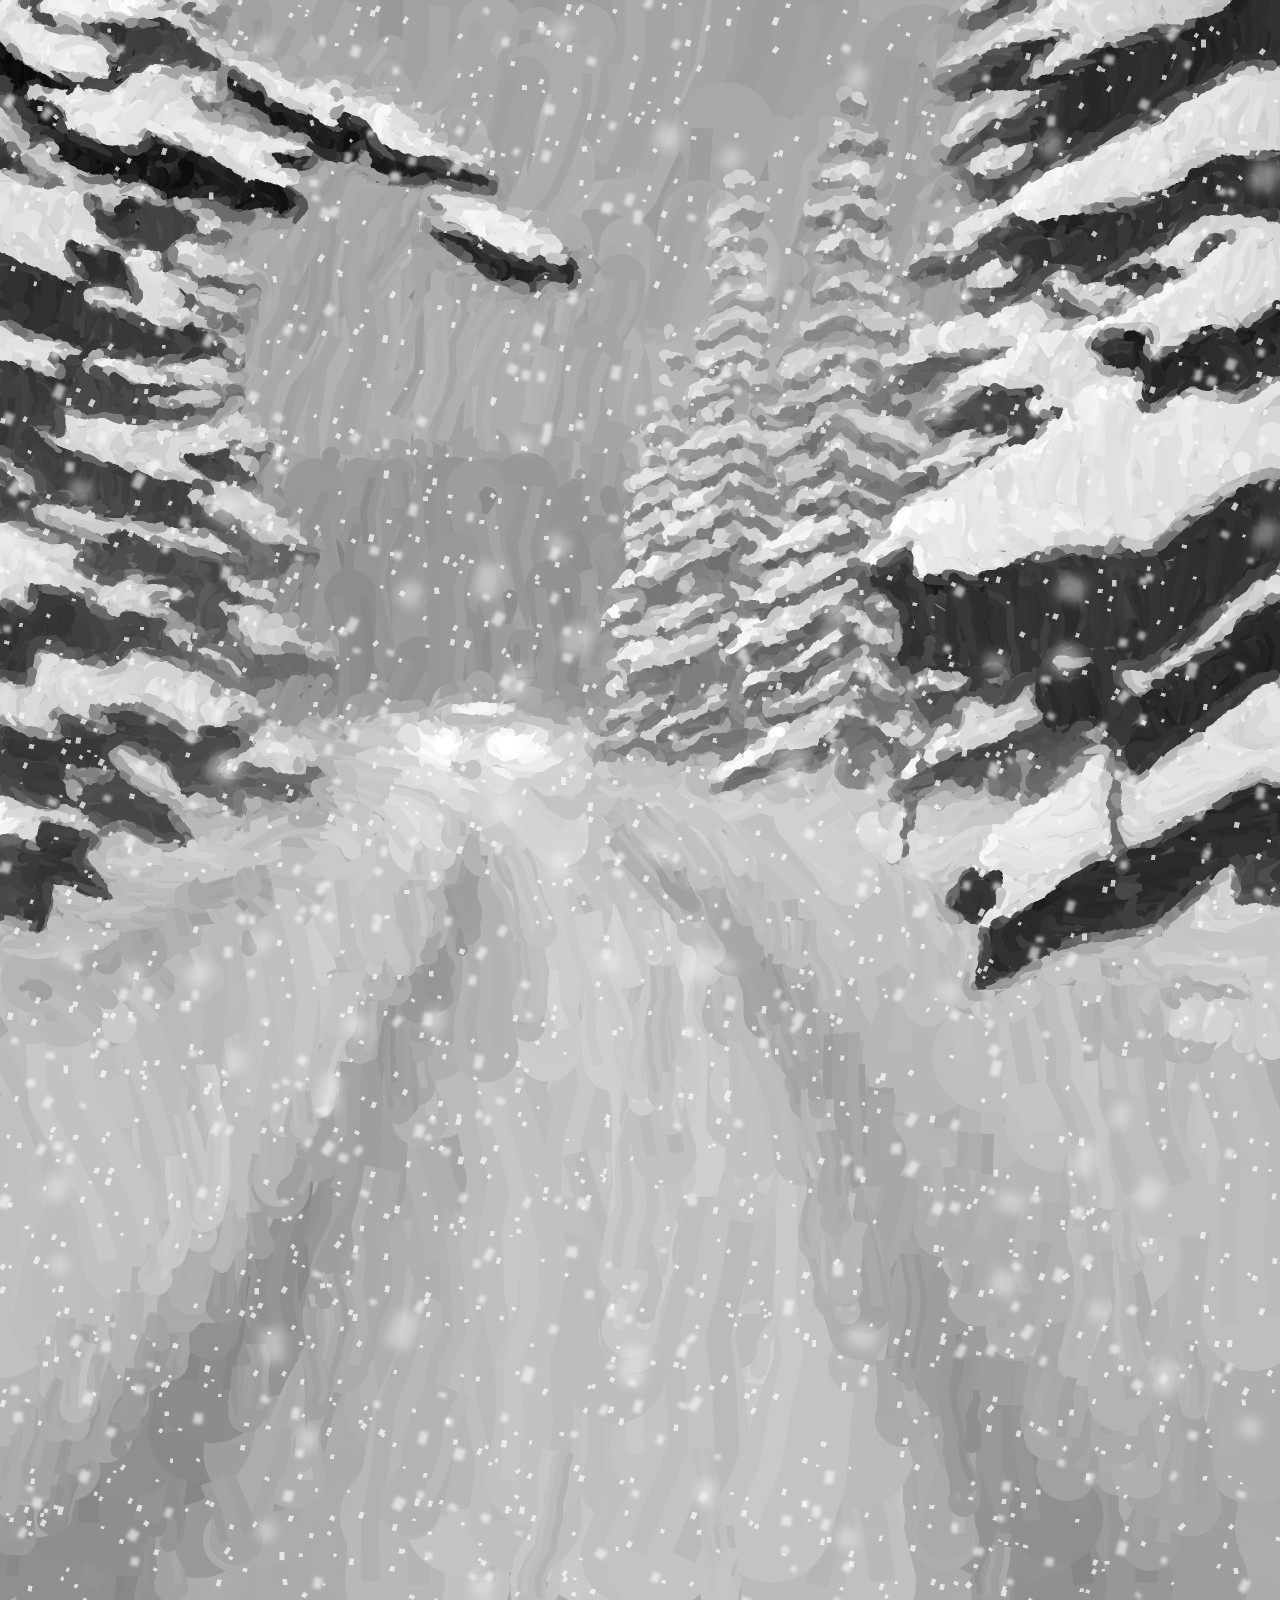
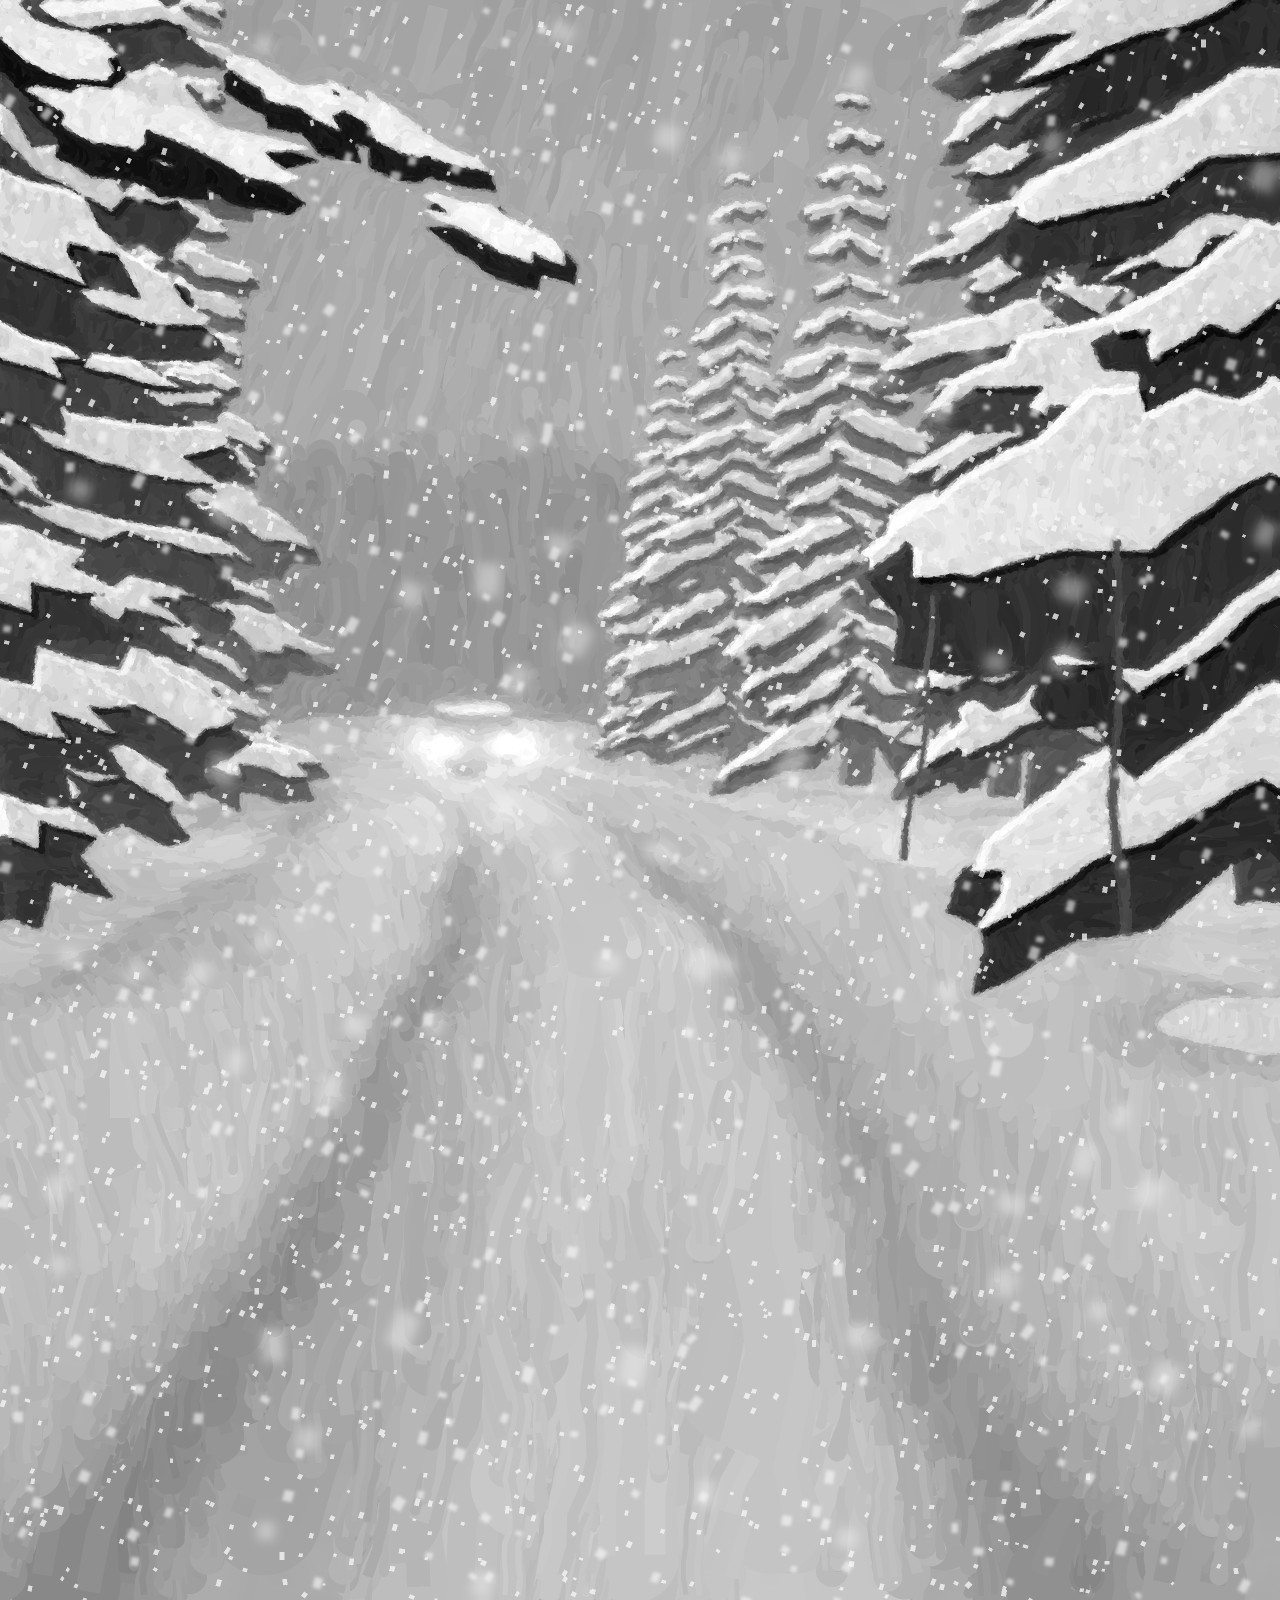
Finer brush passes for the 3 PM and 4 PM pictures; letters now follow the brush strokes
Claude-Session: https://claude.ai/code/session_01BbbX7RBJyvjpGBf2t3PjAb

diff --git a/index.html b/index.html
@@ -95,7 +95,7 @@ footer p { margin: 0 0 6px; }
     </section>
   </main>
   <footer>
-    <p>Every picture is plain text: several hundred thousand characters, each as small as one screen pixel. Each letter is chosen for its weight and for its shape, so the ink sits where the light falls and the strokes run along the edges. Zoomed out, the page shows the ink each letter leaves in its own pixel; zoom in and it types the letters themselves.</p>
+    <p>Every picture is plain text: several hundred thousand characters, each as small as one screen pixel. Each letter is chosen for its weight and for its shape, so the ink sits where the light falls and its strokes run along the edges and, in the newer pictures, along the brush strokes of the painting. Here and there the letters repeat in patterns. Zoomed out, the page shows the ink each letter leaves in its own pixel; zoom in and it types the letters themselves.</p>
     <p>The pictures are illustrations made by Claude from the linked reports. They are not photographs of the events.</p>
   </footer>
 </div>
@@ -257,6 +257,7 @@ function tune() {
   const eq = list.find(a => a[0] === 61)[1];
   pals = [palette(list, sh), palette(list.filter(a => a[0] === 32 || a[0] === 45 || a[0] === 126 || a[0] === 61 || a[1] > eq * 1.03), sh)];
   try { weave(pals[0]); } catch (e) {}
+  try { strokes(pals[0]); } catch (e) {}
 }
 // Patterns (asked for on Nov 19: "use some sort of specific patterns and repetition on text"). In about half of the flat areas the
 // letters are not drawn by lot but repeat: pairs and triples of letters that weigh nearly the same (/\ <> () [] -= .: MW ...), laid
@@ -265,6 +266,32 @@ function tune() {
 // from the tone wanted gives way to one drawn by lot, so the picture seen from afar stays the same.
 const FAMS = ["/\\", "<>", "()", "[]", "{}", "-=", "~-", "=~", ".:", ",'", ";:", ".,", "'`", "+*", "!|", "il", "lI", "1l", "tf", "jl", "db", "qp", "MW", "AV", "OQ", "0O", "8B", "HN", "EF", "ZS", "XK", "TY", "CG", "UJ", "DO", "RK", "PF", "69", "25", "38", "#%", "@&", "$S", "%&", "/|\\", "<=>", "(|)", "-=~", ".:;", "+*#", "^\"", "?!", "7/", "L\\", "TI", "Yl", "hk", "gq", "4+", "kK", "bp", "dq", "JL", "NZ", "VY", "GQ", "BR", "E3", "S5", "B8", "D0", "#@", "&8", "$8", "_.", "-~", "=+", "*^", "<(", ")>", "{[", "]}", "|l", "I1", "i!", ";!", "ft", "Ll", "T7", "Y4", "FP", "KR", "HM", "NW", "UO", "QD", "G6", "96", "@#", "%#", "&$"];
 const BLK = 44;                                                           // patches of pattern are a few dozen letters across
+// Letters that follow the brush (asked for on Nov 19: "can the brushes emit letters ... so the letters follow the brush strokes").
+// The newer pictures come with a second file that says which way the brush ran at every point (p.flow). strokes() makes a table:
+// for each tone and each of 81 directions, the letter whose own strokes run that way and whose weight stays near the tone.
+const TONEB = 60, BU = new Float32Array(81), BV = new Float32Array(81);
+function strokes(pal) {
+  const t = new Int16Array(256 * 81).fill(-1);
+  for (let a = 0; a < 9; a++) for (let b = 0; b < 9; b++) {
+    const vx = (a + 0.5) * 2 / 9 - 1, vy = (b + 0.5) * 2 / 9 - 1, len = Math.hypot(vx, vy);
+    if (len < 0.3) continue;                                              // no clear direction there: the letter is drawn by lot, as before
+    const ux = vx / len, uy = vy / len; BU[a * 9 + b] = ux; BV[a * 9 + b] = uy;
+    for (let q = 0; q < 256; q++) {
+      const v = q / 255 * dmax; let best = -1e9, k = -1;
+      for (let c = pal.loW[q]; c <= pal.hiW[q]; c++) { const dd = (pal.dens[c] - v) / dmax, sc = pal.ox[c] * ux + pal.oy[c] * uy - TONEB * dd * dd; if (sc > best) { best = sc; k = c; } }
+      t[q * 81 + a * 9 + b] = k;
+    }
+  }
+  pal.brush = t;
+}
+function sampleFlow(src) {                                                // the brush directions, one of 81 for every letter
+  const cv = document.createElement("canvas"); cv.width = 2 * C; cv.height = R;
+  const cx = cv.getContext("2d", { willReadFrequently: true }); cx.imageSmoothingEnabled = true; cx.imageSmoothingQuality = "high";
+  cx.drawImage(src, 0, 0, 2 * C, R);
+  const d = cx.getImageData(0, 0, 2 * C, R).data, q = new Uint8Array(C * R);
+  for (let j = 0; j < R; j++) { const o = j * 2 * C * 4; for (let i = 0; i < C; i++) q[j * C + i] = ((d[o + i * 4] * 9) >> 8) * 9 + ((d[o + (C + i) * 4] * 9) >> 8); }
+  return q;
+}
 let patSeed = 0;
 function weave(pal) {
   const fams = [];
@@ -288,13 +315,14 @@ function weave(pal) {
 // eight neighbours (slope for edges, curvature for thin lines). In flat areas the pick stays random, so no pattern forms.
 // st, if given, collects what was done (web/edges.js uses it to check that the letters really follow the edges).
 const EDGE = 0.05, KAP = 0.06, TONE = 30, SIDE = 0.5;
-function dither(F, P, G, st) {
+function dither(F, P, G, st, DQ) {
   let e0 = new Float32Array(C + 2), e1 = new Float32Array(C + 2);
   const row = new Uint8Array(C), rows = [], pick = new Uint8Array(C * R).fill(255), w2 = 2 * C, t = new Float32Array(6), E2 = EDGE * EDGE;
   const Z = new Float32Array(C * R);                                    // the tones with the empty cells as black, for reading neighbours
   for (let q = 0; q < Z.length; q++) Z[q] = F[q] < 0 ? 0 : F[q];
   const at = (i, j) => Z[(j < 0 ? 0 : j >= R ? R - 1 : j) * C + (i < 0 ? 0 : i >= C ? C - 1 : i)];
-  if (st) { st.all = 0; st.n = 0; st.a = 0; st.b = 0; st.h = new Array(21).fill(0); st.c = [{}, {}, {}, {}, {}]; st.d = [{}, {}, {}, {}, {}]; st.pt = 0; st.pp = 0; st.pf = {}; }
+  if (st) { st.all = 0; st.n = 0; st.a = 0; st.b = 0; st.h = new Array(21).fill(0); st.c = [{}, {}, {}, {}, {}]; st.d = [{}, {}, {}, {}, {}]; st.pt = 0; st.pp = 0; st.pf = {}; st.bn = 0; st.ba = 0; st.bb = 0; st.e = [{}, {}, {}, {}, {}]; }
+  const PATT = DQ ? 0.62 : 0.5;                                            // where the brush leads the letters, patterns take fewer patches
   const nbx = Math.ceil(C / BLK) + 2, nby = Math.ceil(R / BLK) + 2, la = new Float32Array(nbx * nby), lb = new Float32Array(nbx * nby), wide = 0.14 * dmax;
   for (let y = 0; y < nby; y++) for (let x = 0; x < nbx; x++) { la[y * nbx + x] = hs(x + 11 + patSeed, y + 5 + 3 * patSeed); lb[y * nbx + x] = hs(x + 301 + 7 * patSeed, y + 97 + patSeed); }
   const ya = new Float32Array(nbx), yb = new Float32Array(nbx), inv = 1 / BLK;     // the two slow fields along the current row of letters
@@ -345,11 +373,21 @@ function dither(F, P, G, st) {
       }
       if (k < 0 && pal.fams) {                                               // a flat cell: is it inside a patch of pattern?
         const xf = i * inv, x0 = xf | 0, u = xf - x0, sa = u * u * (3 - 2 * u), lq = ((f * 255 + 0.5) | 0) * 3, by = pal.famBy;
-        if (by[lq] >= 0 && ya[x0] + (ya[x0 + 1] - ya[x0]) * sa > 0.5) {
+        if (by[lq] >= 0 && ya[x0] + (ya[x0 + 1] - ya[x0]) * sa > PATT) {
           const cnt = by[lq + 1] < 0 ? 1 : by[lq + 2] < 0 ? 2 : 3, r2 = yb[x0] + (yb[x0 + 1] - yb[x0]) * sa, fam = pal.fams[by[lq + Math.min(cnt - 1, Math.floor(r2 * 2.999 * cnt) % cnt)]], L = fam.ks.length;
           const kk = fam.ks[(i + (Math.floor(r2 * 8) % L) * j) % L];
           if (st) st.pt++;
           if (Math.abs(pal.dens[kk] - v) <= wide) { k = kk; if (st) { st.pp++; const nm = fam.ks.map(c => String.fromCharCode(pal.code[c])).join(""); st.pf[nm] = (st.pf[nm] || 0) + 1; } }
+        }
+      }
+      if (k < 0 && DQ && pal.brush) {                                        // a flat cell of a painted picture: the letter leans the way the brush ran
+        const b = DQ[q], kb = pal.brush[lv * 81 + b];
+        if (kb >= 0) {
+          k = kb;
+          if (st) {
+            const ko = pal.lo[lv] + Math.floor(hs(i + 57, j + 131) * (pal.hi[lv] - pal.lo[lv] + 1)), ux = BU[b], uy = BV[b], cl = ux > 0.7 ? 0 : ux < -0.7 ? 1 : uy > 0.7 ? 2 : uy < -0.7 ? 3 : 4;
+            st.bn++; st.ba += pal.ox[k] * ux + pal.oy[k] * uy; st.bb += pal.ox[ko] * ux + pal.oy[ko] * uy; st.e[cl][pal.code[k]] = (st.e[cl][pal.code[k]] || 0) + 1;
+          }
         }
       }
       if (k < 0) k = pal.lo[lv] + Math.floor(hs(i + 57, j + 131) * (pal.hi[lv] - pal.lo[lv] + 1));
@@ -465,7 +503,8 @@ async function field(p) {
   if (p.img) {
     const res = await fetch(p.img);
     if (!res.ok) throw new Error("fetch " + res.status);
-    out = { bmp: await bitmap(await res.blob()), mask: null };
+    out = { bmp: await bitmap(await res.blob()), mask: null, flow: null };
+    if (typeof p.flow === "string" && /^flow\/[A-Za-z0-9-]+\.jpg$/.test(p.flow)) { try { const r2 = await fetch(p.flow); if (r2.ok) out.flow = await bitmap(await r2.blob()); } catch (e) {} }
     if (p.water) { const im = new Image(); im.src = p.water; await im.decode(); out.mask = im; }
   } else out = { code: p.code, key: "", res: null };
   cache.set(p.id, out);
@@ -516,9 +555,9 @@ async function show(i, reveal) {
     await new Promise(r => setTimeout(r, 30));
     if (my !== token) return;
     if (!pals) tune();
-    let F, P = null, G = null;
+    let F, P = null, G = null, DQ = null;
     const t0 = performance.now(), seen = !document.hidden;
-    if (f.bmp) { const s = sample(f.bmp); F = s.F; G = s.G; if (f.mask) P = sample(f.mask, true); }
+    if (f.bmp) { const s = sample(f.bmp); F = s.F; G = s.G; if (f.mask) P = sample(f.mask, true); if (f.flow) { try { DQ = sampleFlow(f.flow); } catch (e) { DQ = null; } } }
     else {
       const k = C + "x" + R;
       if (f.key !== k) { f.res = await runScene(f.code, C, R); f.key = k; if (my !== token) return; }
@@ -526,7 +565,7 @@ async function show(i, reveal) {
       for (let i = 0; i < F.length; i++) if (!(F[i] > 0.004)) F[i] = -1;
     }
     patSeed = 0; for (let n = 0; n < p.id.length; n++) patSeed = (patSeed * 31 + p.id.charCodeAt(n)) % 9973;
-    const typed = dither(F, P, G);
+    const typed = dither(F, P, G, null, DQ);
     rowsArr = typed.rows; win = null; art.textContent = "";
     farOK = M <= 2;
     if (farOK) paintFar(typed.pick, P);
